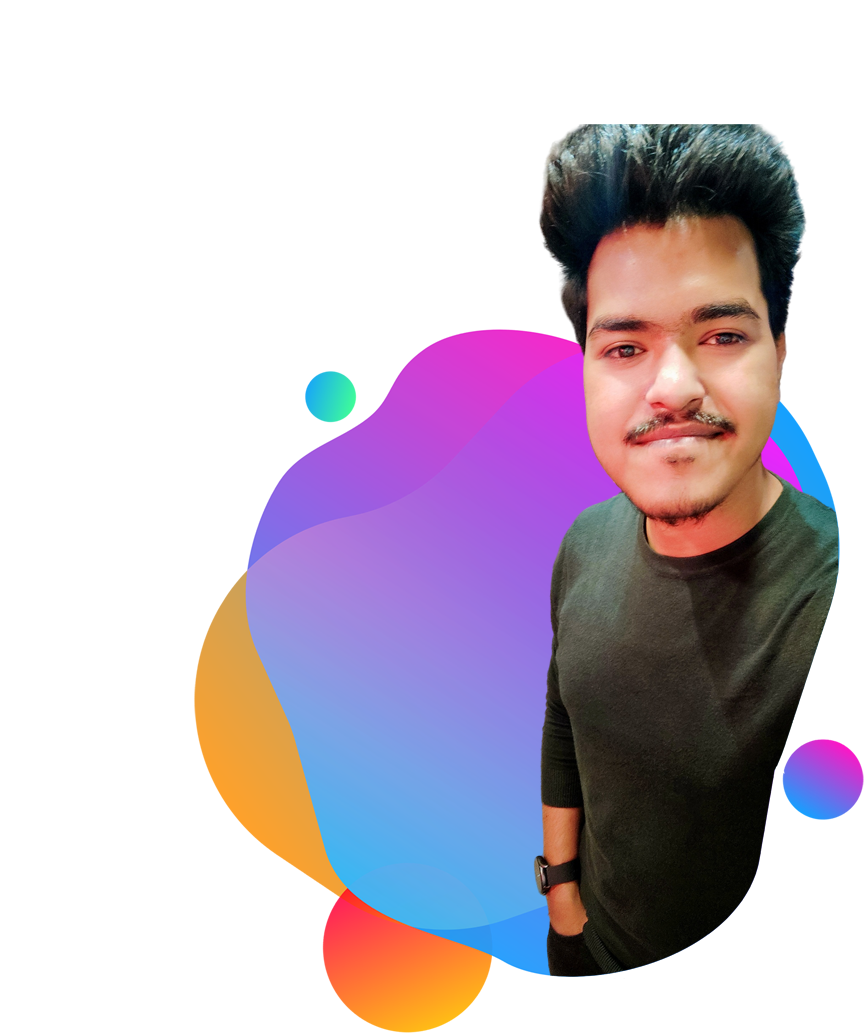
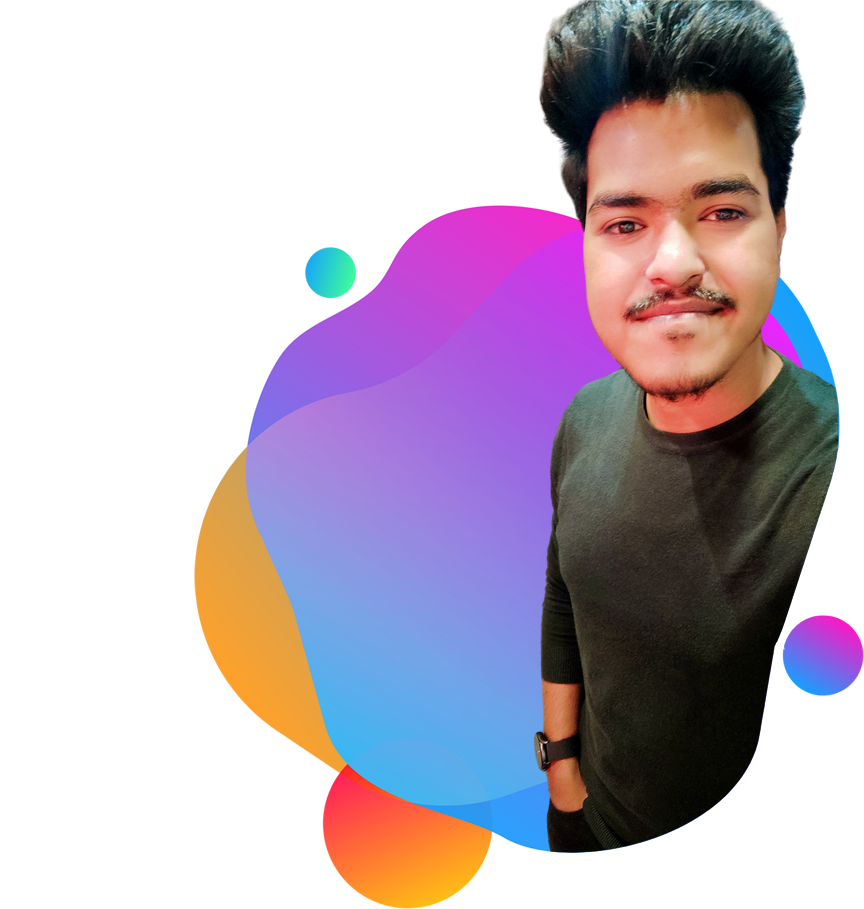
Update - 1

diff --git a/index.html b/index.html
@@ -2,7 +2,20 @@
 <html lang="en" dir="ltr">
   <head>
     <meta charset="utf-8">
-    <meta name="viewport" content="width=device-width, initial-scale=1.0">
+    <meta name="viewport" content="width=device-width, initial-scale=1.0, user-scalable=no">
+    
+    <!--Social Link Preview Configuration-->
+    <meta property="og:image" content="https://www.narendrasingh.tk/images/Light-Portfolio-JPG.jpg">
+    <meta property="og:image:type" content="image/jpg">
+    <meta property="og:image:width" content="1024">
+    <meta property="og:image:height" content="1024">
+    <meta property="og:type" content="website" />
+    <meta property="og:url" content="https://www.narendrasingh.tk/"/>
+    <meta property="og:title" content="Portfolio - Narendra" />
+    <meta name="keywords" content="Portfolio, .Net, C#, Java, Software Engineer, Full Stack Developer, CodeChef, HackerRank">
+    <meta name="author" content="Narendra Singh">
+    <meta property="og:description" content="Hey There! Come and Visit my website." />
+
     <title>Portfolio - Narendra Singh</title>
     <link rel="stylesheet" href="css/swiper-bundle.min.css">
     <link rel="stylesheet" href="css/style.css">

diff --git a/css/style.css b/css/style.css
@@ -1194,8 +1194,10 @@ footer a{
     filter: var(--color-filter);
     background-size: 30px;
     background-position: center;
+    position: fixed;
+    right: 0;
     width: 40px;
-    height: 40px;
+    height: 40px;    
     cursor: pointer;
     display: block;
   }
@@ -1321,10 +1323,11 @@ footer a{
 
   .home-container .home-img{
     position: absolute;
+    right: 3em;
   }
 
   .home-container .home-img img{
-    width: 65%;
+    width: 75%;    
     transform: translate(80px, -180px);
   }
 
